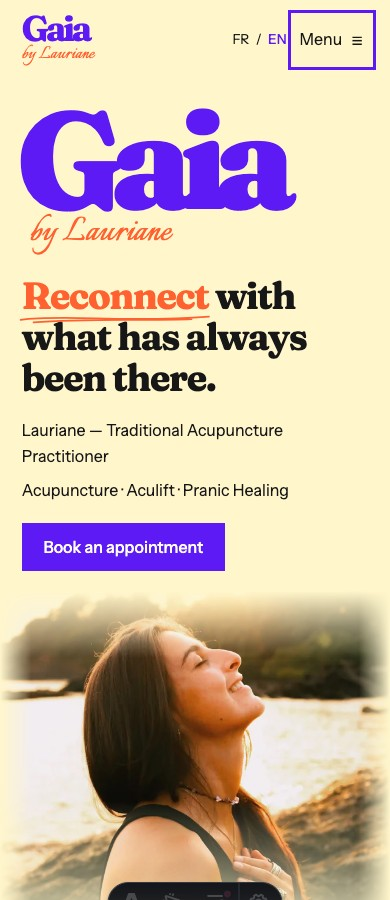
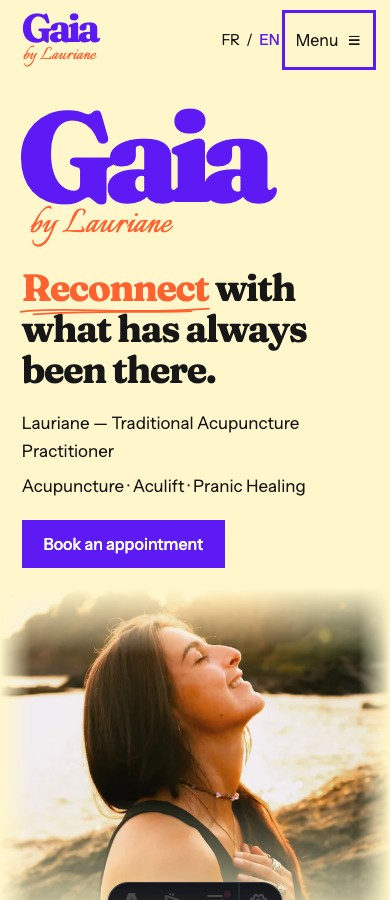
Update Site source

diff --git a/src/styles/home-responsive.css b/src/styles/home-responsive.css
@@ -85,10 +85,30 @@
   .gaia-home-shell footer .legal {max-width:44ch}
 }
 @media (max-width:700px) {
-  body.gaia-home-shell {--home-pad:clamp(20px,5.6vw,24px);--home-body:16px;--home-label:12px;--home-display:clamp(36px,10.25vw,46px)}
-  .gaia-home-shell .header-actions {gap:8px}
+  body.gaia-home-shell {--home-pad:clamp(20px,5.6vw,24px);--home-body:clamp(16.5px,4.36vw,17px);--home-label:12px;--home-display:clamp(36px,10.25vw,46px)}
+  .gaia-home-shell .header-actions {gap:10px}
+  .gaia-home-shell .mini-logo {font-size:2.45rem}
+  .gaia-home-shell .language {font-size:15px}
+  .gaia-home-shell .mobile-nav summary {font-size:16px;padding:0 6px}
+  .gaia-home-shell .mobile-nav summary span {font-size:18px}
+  body.gaia-home-shell {line-height:1.55}
+  .gaia-home p,.gaia-home .manifesto-copy p {line-height:1.55}
+  .gaia-home p {margin-bottom:20px}
+  .gaia-home .text-link {font-size:17px;line-height:1.5}
+  .gaia-home .manifesto {gap:20px}
+  .gaia-home .network {gap:8px}
+  .gaia-home .network-title {margin-bottom:20px}
+  .gaia-home .home-network-art {width:calc(100% + 16px);max-width:none;margin:-8px -8px 0}
+  .gaia-home .network-copy .text-link {margin-top:0}
+  .gaia-home .practice-grid {gap:32px}
+  .gaia-home .women-title {margin-bottom:20px}
+  .gaia-home .women {gap:24px}
+  .gaia-home .about {padding-left:14px;padding-right:14px}
+  .gaia-home .power {gap:4px;--section-bottom:32px}
+  .gaia-home .power .power-dialogue .gaia-symbol {left:10%;top:0;width:80%}
+  .gaia-home .project {gap:20px}
   .gaia-home .hero-copy {padding-top:24px}
-  .gaia-home .hero .wordmark {font-size:clamp(120px,35vw,154px)}
+  .gaia-home .hero .wordmark {font-size:clamp(112px,32.5vw,144px)}
   .gaia-home .hero .byline {font-size:42px;margin-bottom:24px}
   .gaia-home .hero .hero-statement {font-size:clamp(34px,9.6vw,42px)}
   .gaia-home .hero-photo,.gaia-home[data-hero-photo='organic'] .hero-photo {height:clamp(330px,90vw,400px)}
@@ -98,11 +118,11 @@
   .gaia-home .practice-pictogram svg {width:68px;height:68px}
   .gaia-home .practice-heading h3 {font-size:clamp(24px,6.7vw,28px)}
   .gaia-home .women-title {font-size:clamp(34px,9.2vw,40px)}
-  .gaia-home .story-module {padding:20px;border-radius:16px}
+  .gaia-home .story-module {padding:18px;border-radius:14px}
   .gaia-home .story-module>.eyebrow {font-size:12px}
   .gaia-home .story-statement {font-size:24px}
   .gaia-home .about .editorial-collage {margin-top:20px;border-radius:10px}
-  .gaia-home .power-dialogue {max-width:260px}
+  .gaia-home .power-dialogue {max-width:280px}
   .gaia-home .project-display-title {font-size:clamp(36px,9.7vw,42px)}
   .gaia-home .locations-title {font-size:clamp(34px,9.2vw,40px)}
   .gaia-home .final-cta h2 {font-size:clamp(52px,14.2vw,64px);letter-spacing:-.07em}
